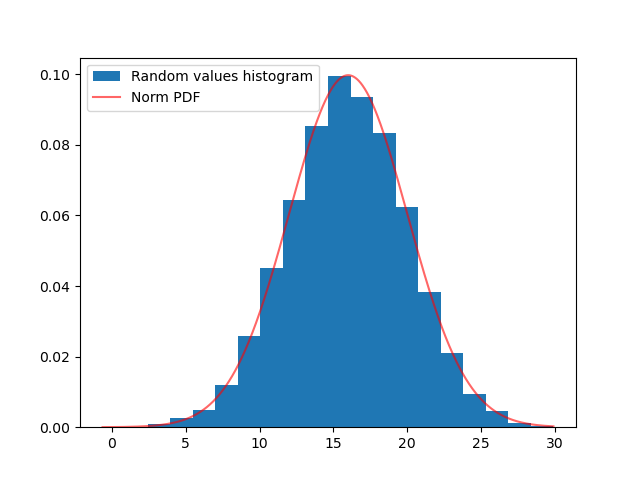
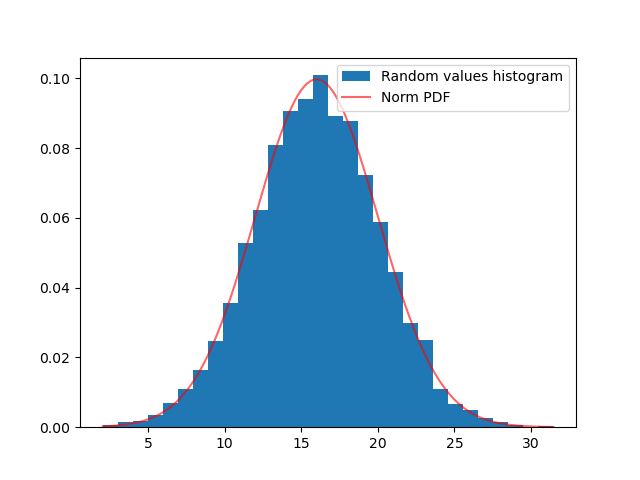
more bins

diff --git a/homework2/pr3.py b/homework2/pr3.py
@@ -25,7 +25,8 @@ def hist_create(n=10000,mu=16,dev=4):
     # build figure
     fig, ax = plt.subplots()
     
-    ax.hist(r, bins=20, density=True,label="Random values histogram")
+    ax.hist(r, bins=30, density=True,
+            label="Random values histogram")
     ax.plot(xarr,yarr,'r-',alpha=0.6,label="Norm PDF")
 
     ax.legend()
